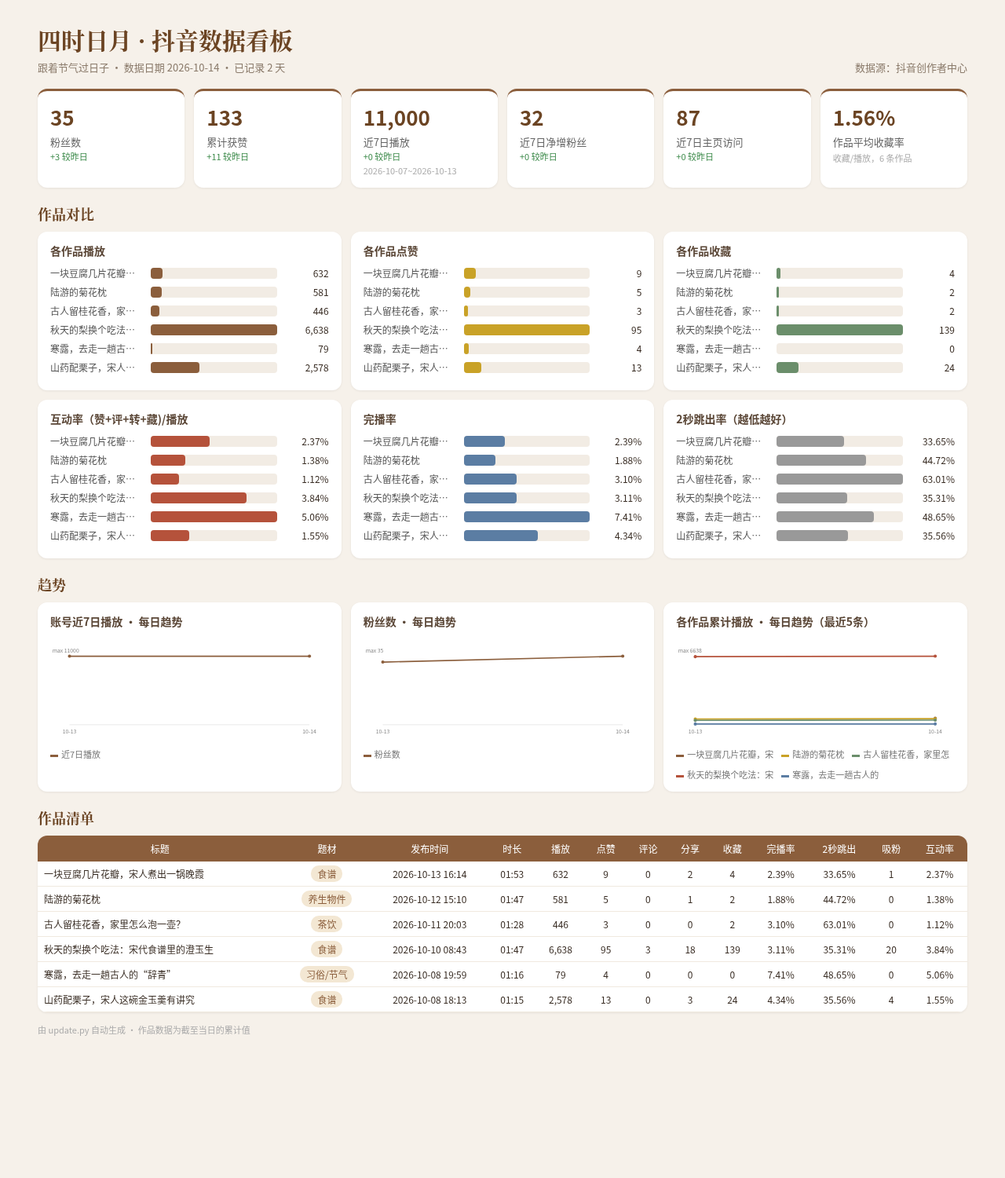
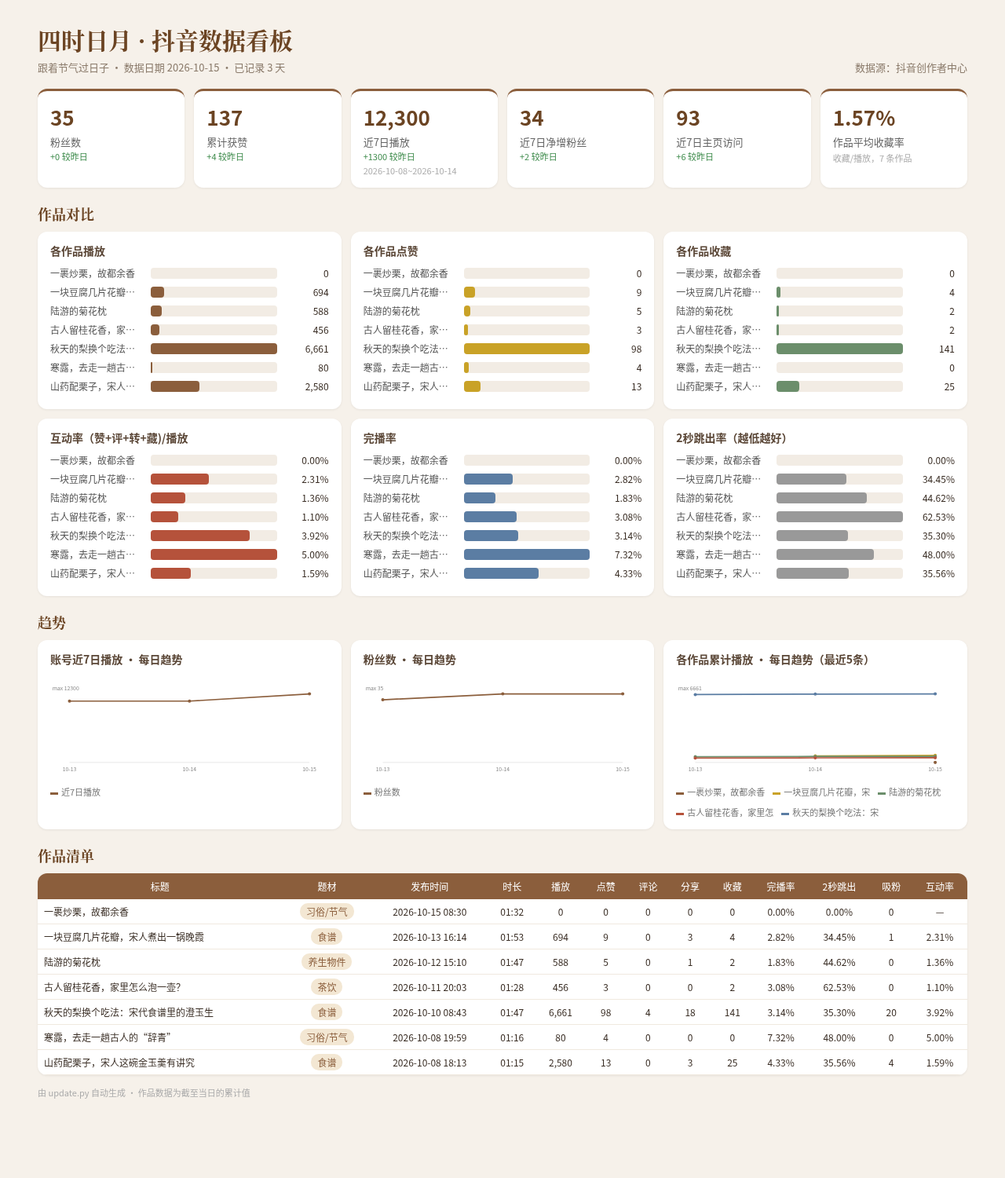
update 2026-10-15

diff --git a/index.html b/index.html
@@ -10,7 +10,7 @@ h2{font-family:"Noto Serif CJK SC",serif;font-size:18px;color:#6b4423;margin:20p
 .leg{font-size:11px;color:#777;display:flex;flex-wrap:wrap;gap:10px}.leg i{display:inline-block;width:10px;height:3px;margin-right:4px;vertical-align:middle}
 table{width:100%;border-collapse:collapse;background:#fff;border-radius:12px;overflow:hidden;font-size:12px;box-shadow:0 1px 3px #0001}th{background:#8B5E3C;color:#fff;padding:8px;font-weight:500}td{padding:7px 8px;border-bottom:1px solid #f0e9df;text-align:center}td:first-child{text-align:left}
 .tag{background:#f3e7d3;color:#8B5E3C;padding:2px 8px;border-radius:10px}footer{color:#aaa;font-size:11px;margin-top:14px}</style></head><body><div class="wrap">
-<header><div><h1>四时日月 · 抖音数据看板</h1><p>跟着节气过日子 · 数据日期 2026-10-14 · 已记录 2 天</p></div><p>数据源：抖音创作者中心</p></header>
-<div class="kpis"><div class="kpi"><b>35</b><span>粉丝数</span><em class="up">+3 较昨日</em><small></small></div><div class="kpi"><b>133</b><span>累计获赞</span><em class="up">+11 较昨日</em><small></small></div><div class="kpi"><b>11,000</b><span>近7日播放</span><em class="up">+0 较昨日</em><small>2026-10-07~2026-10-13</small></div><div class="kpi"><b>32</b><span>近7日净增粉丝</span><em class="up">+0 较昨日</em><small></small></div><div class="kpi"><b>87</b><span>近7日主页访问</span><em class="up">+0 较昨日</em><small></small></div><div class="kpi"><b>1.56%</b><span>作品平均收藏率</span><small>收藏/播放，6 条作品</small></div></div><h2>作品对比</h2><div class="grid"><div class="card"><h3>各作品播放</h3><div class="br"><span class="bl" title="一块豆腐几片花瓣，宋人煮出一锅晚霞">一块豆腐几片花瓣，宋人煮出一锅晚霞</span><div class="bt"><div class="bf" style="width:9.5%;background:#8B5E3C"></div></div><span class="bv">632</span></div><div class="br"><span class="bl" title="陆游的菊花枕">陆游的菊花枕</span><div class="bt"><div class="bf" style="width:8.8%;background:#8B5E3C"></div></div><span class="bv">581</span></div><div class="br"><span class="bl" title="古人留桂花香，家里怎么泡一壶？">古人留桂花香，家里怎么泡一壶？</span><div class="bt"><div class="bf" style="width:6.7%;background:#8B5E3C"></div></div><span class="bv">446</span></div><div class="br"><span class="bl" title="秋天的梨换个吃法：宋代食谱里的澄玉生">秋天的梨换个吃法：宋代食谱里的澄玉生</span><div class="bt"><div class="bf" style="width:100.0%;background:#8B5E3C"></div></div><span class="bv">6,638</span></div><div class="br"><span class="bl" title="寒露，去走一趟古人的“辞青”">寒露，去走一趟古人的“辞青”</span><div class="bt"><div class="bf" style="width:1.2%;background:#8B5E3C"></div></div><span class="bv">79</span></div><div class="br"><span class="bl" title="山药配栗子，宋人这碗金玉羹有讲究">山药配栗子，宋人这碗金玉羹有讲究</span><div class="bt"><div class="bf" style="width:38.8%;background:#8B5E3C"></div></div><span class="bv">2,578</span></div></div><div class="card"><h3>各作品点赞</h3><div class="br"><span class="bl" title="一块豆腐几片花瓣，宋人煮出一锅晚霞">一块豆腐几片花瓣，宋人煮出一锅晚霞</span><div class="bt"><div class="bf" style="width:9.5%;background:#C9A227"></div></div><span class="bv">9</span></div><div class="br"><span class="bl" title="陆游的菊花枕">陆游的菊花枕</span><div class="bt"><div class="bf" style="width:5.3%;background:#C9A227"></div></div><span class="bv">5</span></div><div class="br"><span class="bl" title="古人留桂花香，家里怎么泡一壶？">古人留桂花香，家里怎么泡一壶？</span><div class="bt"><div class="bf" style="width:3.2%;background:#C9A227"></div></div><span class="bv">3</span></div><div class="br"><span class="bl" title="秋天的梨换个吃法：宋代食谱里的澄玉生">秋天的梨换个吃法：宋代食谱里的澄玉生</span><div class="bt"><div class="bf" style="width:100.0%;background:#C9A227"></div></div><span class="bv">95</span></div><div class="br"><span class="bl" title="寒露，去走一趟古人的“辞青”">寒露，去走一趟古人的“辞青”</span><div class="bt"><div class="bf" style="width:4.2%;background:#C9A227"></div></div><span class="bv">4</span></div><div class="br"><span class="bl" title="山药配栗子，宋人这碗金玉羹有讲究">山药配栗子，宋人这碗金玉羹有讲究</span><div class="bt"><div class="bf" style="width:13.7%;background:#C9A227"></div></div><span class="bv">13</span></div></div><div class="card"><h3>各作品收藏</h3><div class="br"><span class="bl" title="一块豆腐几片花瓣，宋人煮出一锅晚霞">一块豆腐几片花瓣，宋人煮出一锅晚霞</span><div class="bt"><div class="bf" style="width:2.9%;background:#6B8E6B"></div></div><span class="bv">4</span></div><div class="br"><span class="bl" title="陆游的菊花枕">陆游的菊花枕</span><div class="bt"><div class="bf" style="width:1.4%;background:#6B8E6B"></div></div><span class="bv">2</span></div><div class="br"><span class="bl" title="古人留桂花香，家里怎么泡一壶？">古人留桂花香，家里怎么泡一壶？</span><div class="bt"><div class="bf" style="width:1.4%;background:#6B8E6B"></div></div><span class="bv">2</span></div><div class="br"><span class="bl" title="秋天的梨换个吃法：宋代食谱里的澄玉生">秋天的梨换个吃法：宋代食谱里的澄玉生</span><div class="bt"><div class="bf" style="width:100.0%;background:#6B8E6B"></div></div><span class="bv">139</span></div><div class="br"><span class="bl" title="寒露，去走一趟古人的“辞青”">寒露，去走一趟古人的“辞青”</span><div class="bt"><div class="bf" style="width:0.0%;background:#6B8E6B"></div></div><span class="bv">0</span></div><div class="br"><span class="bl" title="山药配栗子，宋人这碗金玉羹有讲究">山药配栗子，宋人这碗金玉羹有讲究</span><div class="bt"><div class="bf" style="width:17.3%;background:#6B8E6B"></div></div><span class="bv">24</span></div></div><div class="card"><h3>互动率（赞+评+转+藏)/播放</h3><div class="br"><span class="bl" title="一块豆腐几片花瓣，宋人煮出一锅晚霞">一块豆腐几片花瓣，宋人煮出一锅晚霞</span><div class="bt"><div class="bf" style="width:46.8%;background:#B5523B"></div></div><span class="bv">2.37%</span></div><div class="br"><span class="bl" title="陆游的菊花枕">陆游的菊花枕</span><div class="bt"><div class="bf" style="width:27.3%;background:#B5523B"></div></div><span class="bv">1.38%</span></div><div class="br"><span class="bl" title="古人留桂花香，家里怎么泡一壶？">古人留桂花香，家里怎么泡一壶？</span><div class="bt"><div class="bf" style="width:22.1%;background:#B5523B"></div></div><span class="bv">1.12%</span></div><div class="br"><span class="bl" title="秋天的梨换个吃法：宋代食谱里的澄玉生">秋天的梨换个吃法：宋代食谱里的澄玉生</span><div class="bt"><div class="bf" style="width:75.9%;background:#B5523B"></div></div><span class="bv">3.84%</span></div><div class="br"><span class="bl" title="寒露，去走一趟古人的“辞青”">寒露，去走一趟古人的“辞青”</span><div class="bt"><div class="bf" style="width:100.0%;background:#B5523B"></div></div><span class="bv">5.06%</span></div><div class="br"><span class="bl" title="山药配栗子，宋人这碗金玉羹有讲究">山药配栗子，宋人这碗金玉羹有讲究</span><div class="bt"><div class="bf" style="width:30.6%;background:#B5523B"></div></div><span class="bv">1.55%</span></div></div><div class="card"><h3>完播率</h3><div class="br"><span class="bl" title="一块豆腐几片花瓣，宋人煮出一锅晚霞">一块豆腐几片花瓣，宋人煮出一锅晚霞</span><div class="bt"><div class="bf" style="width:32.3%;background:#5B7DA3"></div></div><span class="bv">2.39%</span></div><div class="br"><span class="bl" title="陆游的菊花枕">陆游的菊花枕</span><div class="bt"><div class="bf" style="width:25.4%;background:#5B7DA3"></div></div><span class="bv">1.88%</span></div><div class="br"><span class="bl" title="古人留桂花香，家里怎么泡一壶？">古人留桂花香，家里怎么泡一壶？</span><div class="bt"><div class="bf" style="width:41.8%;background:#5B7DA3"></div></div><span class="bv">3.10%</span></div><div class="br"><span class="bl" title="秋天的梨换个吃法：宋代食谱里的澄玉生">秋天的梨换个吃法：宋代食谱里的澄玉生</span><div class="bt"><div class="bf" style="width:42.0%;background:#5B7DA3"></div></div><span class="bv">3.11%</span></div><div class="br"><span class="bl" title="寒露，去走一趟古人的“辞青”">寒露，去走一趟古人的“辞青”</span><div class="bt"><div class="bf" style="width:100.0%;background:#5B7DA3"></div></div><span class="bv">7.41%</span></div><div class="br"><span class="bl" title="山药配栗子，宋人这碗金玉羹有讲究">山药配栗子，宋人这碗金玉羹有讲究</span><div class="bt"><div class="bf" style="width:58.6%;background:#5B7DA3"></div></div><span class="bv">4.34%</span></div></div><div class="card"><h3>2秒跳出率（越低越好）</h3><div class="br"><span class="bl" title="一块豆腐几片花瓣，宋人煮出一锅晚霞">一块豆腐几片花瓣，宋人煮出一锅晚霞</span><div class="bt"><div class="bf" style="width:53.4%;background:#999"></div></div><span class="bv">33.65%</span></div><div class="br"><span class="bl" title="陆游的菊花枕">陆游的菊花枕</span><div class="bt"><div class="bf" style="width:71.0%;background:#999"></div></div><span class="bv">44.72%</span></div><div class="br"><span class="bl" title="古人留桂花香，家里怎么泡一壶？">古人留桂花香，家里怎么泡一壶？</span><div class="bt"><div class="bf" style="width:100.0%;background:#999"></div></div><span class="bv">63.01%</span></div><div class="br"><span class="bl" title="秋天的梨换个吃法：宋代食谱里的澄玉生">秋天的梨换个吃法：宋代食谱里的澄玉生</span><div class="bt"><div class="bf" style="width:56.0%;background:#999"></div></div><span class="bv">35.31%</span></div><div class="br"><span class="bl" title="寒露，去走一趟古人的“辞青”">寒露，去走一趟古人的“辞青”</span><div class="bt"><div class="bf" style="width:77.2%;background:#999"></div></div><span class="bv">48.65%</span></div><div class="br"><span class="bl" title="山药配栗子，宋人这碗金玉羹有讲究">山药配栗子，宋人这碗金玉羹有讲究</span><div class="bt"><div class="bf" style="width:56.4%;background:#999"></div></div><span class="bv">35.56%</span></div></div></div><h2>趋势</h2><div class="grid"><div class="card"><h3>账号近7日播放 · 每日趋势</h3><svg viewBox="0 0 520 200"><line x1="36" y1="164" x2="484" y2="164" stroke="#ddd"/><polyline points="36.0,36.0 484.0,36.0" fill="none" stroke="#8B5E3C" stroke-width="2.5"/><circle cx="36.0" cy="36.0" r="3" fill="#8B5E3C"/><circle cx="484.0" cy="36.0" r="3" fill="#8B5E3C"/><text x="36.0" y="180" font-size="10" text-anchor="middle" fill="#888">10-13</text><text x="484.0" y="180" font-size="10" text-anchor="middle" fill="#888">10-14</text><text x="4" y="30" font-size="10" fill="#888">max 11000</text></svg><div class="leg"><span><i style="background:#8B5E3C"></i>近7日播放</span></div></div><div class="card"><h3>粉丝数 · 每日趋势</h3><svg viewBox="0 0 520 200"><line x1="36" y1="164" x2="484" y2="164" stroke="#ddd"/><polyline points="36.0,47.0 484.0,36.0" fill="none" stroke="#8B5E3C" stroke-width="2.5"/><circle cx="36.0" cy="47.0" r="3" fill="#8B5E3C"/><circle cx="484.0" cy="36.0" r="3" fill="#8B5E3C"/><text x="36.0" y="180" font-size="10" text-anchor="middle" fill="#888">10-13</text><text x="484.0" y="180" font-size="10" text-anchor="middle" fill="#888">10-14</text><text x="4" y="30" font-size="10" fill="#888">max 35</text></svg><div class="leg"><span><i style="background:#8B5E3C"></i>粉丝数</span></div></div><div class="card"><h3>各作品累计播放 · 每日趋势（最近5条）</h3><svg viewBox="0 0 520 200"><line x1="36" y1="164" x2="484" y2="164" stroke="#ddd"/><polyline points="484.0,151.8" fill="none" stroke="#8B5E3C" stroke-width="2.5"/><circle cx="484.0" cy="151.8" r="3" fill="#8B5E3C"/><polyline points="36.0,153.3 484.0,152.8" fill="none" stroke="#C9A227" stroke-width="2.5"/><circle cx="36.0" cy="153.3" r="3" fill="#C9A227"/><circle cx="484.0" cy="152.8" r="3" fill="#C9A227"/><polyline points="36.0,155.8 484.0,155.4" fill="none" stroke="#6B8E6B" stroke-width="2.5"/><circle cx="36.0" cy="155.8" r="3" fill="#6B8E6B"/><circle cx="484.0" cy="155.4" r="3" fill="#6B8E6B"/><polyline points="36.0,36.9 484.0,36.0" fill="none" stroke="#B5523B" stroke-width="2.5"/><circle cx="36.0" cy="36.9" r="3" fill="#B5523B"/><circle cx="484.0" cy="36.0" r="3" fill="#B5523B"/><polyline points="36.0,162.6 484.0,162.5" fill="none" stroke="#5B7DA3" stroke-width="2.5"/><circle cx="36.0" cy="162.6" r="3" fill="#5B7DA3"/><circle cx="484.0" cy="162.5" r="3" fill="#5B7DA3"/><text x="36.0" y="180" font-size="10" text-anchor="middle" fill="#888">10-13</text><text x="484.0" y="180" font-size="10" text-anchor="middle" fill="#888">10-14</text><text x="4" y="30" font-size="10" fill="#888">max 6638</text></svg><div class="leg"><span><i style="background:#8B5E3C"></i>一块豆腐几片花瓣，宋</span><span><i style="background:#C9A227"></i>陆游的菊花枕</span><span><i style="background:#6B8E6B"></i>古人留桂花香，家里怎</span><span><i style="background:#B5523B"></i>秋天的梨换个吃法：宋</span><span><i style="background:#5B7DA3"></i>寒露，去走一趟古人的</span></div></div></div>
-<h2>作品清单</h2><table><tr><th>标题</th><th>题材</th><th>发布时间</th><th>时长</th><th>播放</th><th>点赞</th><th>评论</th><th>分享</th><th>收藏</th><th>完播率</th><th>2秒跳出</th><th>吸粉</th><th>互动率</th></tr><tr><td>一块豆腐几片花瓣，宋人煮出一锅晚霞</td><td><span class="tag">食谱</span></td><td>2026-10-13 16:14</td><td>01:53</td><td>632</td><td>9</td><td>0</td><td>2</td><td>4</td><td>2.39%</td><td>33.65%</td><td>1</td><td>2.37%</td></tr><tr><td>陆游的菊花枕</td><td><span class="tag">养生物件</span></td><td>2026-10-12 15:10</td><td>01:47</td><td>581</td><td>5</td><td>0</td><td>1</td><td>2</td><td>1.88%</td><td>44.72%</td><td>0</td><td>1.38%</td></tr><tr><td>古人留桂花香，家里怎么泡一壶？</td><td><span class="tag">茶饮</span></td><td>2026-10-11 20:03</td><td>01:28</td><td>446</td><td>3</td><td>0</td><td>0</td><td>2</td><td>3.10%</td><td>63.01%</td><td>0</td><td>1.12%</td></tr><tr><td>秋天的梨换个吃法：宋代食谱里的澄玉生</td><td><span class="tag">食谱</span></td><td>2026-10-10 08:43</td><td>01:47</td><td>6,638</td><td>95</td><td>3</td><td>18</td><td>139</td><td>3.11%</td><td>35.31%</td><td>20</td><td>3.84%</td></tr><tr><td>寒露，去走一趟古人的“辞青”</td><td><span class="tag">习俗/节气</span></td><td>2026-10-08 19:59</td><td>01:16</td><td>79</td><td>4</td><td>0</td><td>0</td><td>0</td><td>7.41%</td><td>48.65%</td><td>0</td><td>5.06%</td></tr><tr><td>山药配栗子，宋人这碗金玉羹有讲究</td><td><span class="tag">食谱</span></td><td>2026-10-08 18:13</td><td>01:15</td><td>2,578</td><td>13</td><td>0</td><td>3</td><td>24</td><td>4.34%</td><td>35.56%</td><td>4</td><td>1.55%</td></tr></table>
+<header><div><h1>四时日月 · 抖音数据看板</h1><p>跟着节气过日子 · 数据日期 2026-10-15 · 已记录 3 天</p></div><p>数据源：抖音创作者中心</p></header>
+<div class="kpis"><div class="kpi"><b>35</b><span>粉丝数</span><em class="up">+0 较昨日</em><small></small></div><div class="kpi"><b>137</b><span>累计获赞</span><em class="up">+4 较昨日</em><small></small></div><div class="kpi"><b>12,300</b><span>近7日播放</span><em class="up">+1300 较昨日</em><small>2026-10-08~2026-10-14</small></div><div class="kpi"><b>34</b><span>近7日净增粉丝</span><em class="up">+2 较昨日</em><small></small></div><div class="kpi"><b>93</b><span>近7日主页访问</span><em class="up">+6 较昨日</em><small></small></div><div class="kpi"><b>1.57%</b><span>作品平均收藏率</span><small>收藏/播放，7 条作品</small></div></div><h2>作品对比</h2><div class="grid"><div class="card"><h3>各作品播放</h3><div class="br"><span class="bl" title="一裹炒栗，故都余香">一裹炒栗，故都余香</span><div class="bt"><div class="bf" style="width:0.0%;background:#8B5E3C"></div></div><span class="bv">0</span></div><div class="br"><span class="bl" title="一块豆腐几片花瓣，宋人煮出一锅晚霞">一块豆腐几片花瓣，宋人煮出一锅晚霞</span><div class="bt"><div class="bf" style="width:10.4%;background:#8B5E3C"></div></div><span class="bv">694</span></div><div class="br"><span class="bl" title="陆游的菊花枕">陆游的菊花枕</span><div class="bt"><div class="bf" style="width:8.8%;background:#8B5E3C"></div></div><span class="bv">588</span></div><div class="br"><span class="bl" title="古人留桂花香，家里怎么泡一壶？">古人留桂花香，家里怎么泡一壶？</span><div class="bt"><div class="bf" style="width:6.8%;background:#8B5E3C"></div></div><span class="bv">456</span></div><div class="br"><span class="bl" title="秋天的梨换个吃法：宋代食谱里的澄玉生">秋天的梨换个吃法：宋代食谱里的澄玉生</span><div class="bt"><div class="bf" style="width:100.0%;background:#8B5E3C"></div></div><span class="bv">6,661</span></div><div class="br"><span class="bl" title="寒露，去走一趟古人的“辞青”">寒露，去走一趟古人的“辞青”</span><div class="bt"><div class="bf" style="width:1.2%;background:#8B5E3C"></div></div><span class="bv">80</span></div><div class="br"><span class="bl" title="山药配栗子，宋人这碗金玉羹有讲究">山药配栗子，宋人这碗金玉羹有讲究</span><div class="bt"><div class="bf" style="width:38.7%;background:#8B5E3C"></div></div><span class="bv">2,580</span></div></div><div class="card"><h3>各作品点赞</h3><div class="br"><span class="bl" title="一裹炒栗，故都余香">一裹炒栗，故都余香</span><div class="bt"><div class="bf" style="width:0.0%;background:#C9A227"></div></div><span class="bv">0</span></div><div class="br"><span class="bl" title="一块豆腐几片花瓣，宋人煮出一锅晚霞">一块豆腐几片花瓣，宋人煮出一锅晚霞</span><div class="bt"><div class="bf" style="width:9.2%;background:#C9A227"></div></div><span class="bv">9</span></div><div class="br"><span class="bl" title="陆游的菊花枕">陆游的菊花枕</span><div class="bt"><div class="bf" style="width:5.1%;background:#C9A227"></div></div><span class="bv">5</span></div><div class="br"><span class="bl" title="古人留桂花香，家里怎么泡一壶？">古人留桂花香，家里怎么泡一壶？</span><div class="bt"><div class="bf" style="width:3.1%;background:#C9A227"></div></div><span class="bv">3</span></div><div class="br"><span class="bl" title="秋天的梨换个吃法：宋代食谱里的澄玉生">秋天的梨换个吃法：宋代食谱里的澄玉生</span><div class="bt"><div class="bf" style="width:100.0%;background:#C9A227"></div></div><span class="bv">98</span></div><div class="br"><span class="bl" title="寒露，去走一趟古人的“辞青”">寒露，去走一趟古人的“辞青”</span><div class="bt"><div class="bf" style="width:4.1%;background:#C9A227"></div></div><span class="bv">4</span></div><div class="br"><span class="bl" title="山药配栗子，宋人这碗金玉羹有讲究">山药配栗子，宋人这碗金玉羹有讲究</span><div class="bt"><div class="bf" style="width:13.3%;background:#C9A227"></div></div><span class="bv">13</span></div></div><div class="card"><h3>各作品收藏</h3><div class="br"><span class="bl" title="一裹炒栗，故都余香">一裹炒栗，故都余香</span><div class="bt"><div class="bf" style="width:0.0%;background:#6B8E6B"></div></div><span class="bv">0</span></div><div class="br"><span class="bl" title="一块豆腐几片花瓣，宋人煮出一锅晚霞">一块豆腐几片花瓣，宋人煮出一锅晚霞</span><div class="bt"><div class="bf" style="width:2.8%;background:#6B8E6B"></div></div><span class="bv">4</span></div><div class="br"><span class="bl" title="陆游的菊花枕">陆游的菊花枕</span><div class="bt"><div class="bf" style="width:1.4%;background:#6B8E6B"></div></div><span class="bv">2</span></div><div class="br"><span class="bl" title="古人留桂花香，家里怎么泡一壶？">古人留桂花香，家里怎么泡一壶？</span><div class="bt"><div class="bf" style="width:1.4%;background:#6B8E6B"></div></div><span class="bv">2</span></div><div class="br"><span class="bl" title="秋天的梨换个吃法：宋代食谱里的澄玉生">秋天的梨换个吃法：宋代食谱里的澄玉生</span><div class="bt"><div class="bf" style="width:100.0%;background:#6B8E6B"></div></div><span class="bv">141</span></div><div class="br"><span class="bl" title="寒露，去走一趟古人的“辞青”">寒露，去走一趟古人的“辞青”</span><div class="bt"><div class="bf" style="width:0.0%;background:#6B8E6B"></div></div><span class="bv">0</span></div><div class="br"><span class="bl" title="山药配栗子，宋人这碗金玉羹有讲究">山药配栗子，宋人这碗金玉羹有讲究</span><div class="bt"><div class="bf" style="width:17.7%;background:#6B8E6B"></div></div><span class="bv">25</span></div></div><div class="card"><h3>互动率（赞+评+转+藏)/播放</h3><div class="br"><span class="bl" title="一裹炒栗，故都余香">一裹炒栗，故都余香</span><div class="bt"><div class="bf" style="width:0.0%;background:#B5523B"></div></div><span class="bv">0.00%</span></div><div class="br"><span class="bl" title="一块豆腐几片花瓣，宋人煮出一锅晚霞">一块豆腐几片花瓣，宋人煮出一锅晚霞</span><div class="bt"><div class="bf" style="width:46.2%;background:#B5523B"></div></div><span class="bv">2.31%</span></div><div class="br"><span class="bl" title="陆游的菊花枕">陆游的菊花枕</span><div class="bt"><div class="bf" style="width:27.2%;background:#B5523B"></div></div><span class="bv">1.36%</span></div><div class="br"><span class="bl" title="古人留桂花香，家里怎么泡一壶？">古人留桂花香，家里怎么泡一壶？</span><div class="bt"><div class="bf" style="width:22.0%;background:#B5523B"></div></div><span class="bv">1.10%</span></div><div class="br"><span class="bl" title="秋天的梨换个吃法：宋代食谱里的澄玉生">秋天的梨换个吃法：宋代食谱里的澄玉生</span><div class="bt"><div class="bf" style="width:78.4%;background:#B5523B"></div></div><span class="bv">3.92%</span></div><div class="br"><span class="bl" title="寒露，去走一趟古人的“辞青”">寒露，去走一趟古人的“辞青”</span><div class="bt"><div class="bf" style="width:100.0%;background:#B5523B"></div></div><span class="bv">5.00%</span></div><div class="br"><span class="bl" title="山药配栗子，宋人这碗金玉羹有讲究">山药配栗子，宋人这碗金玉羹有讲究</span><div class="bt"><div class="bf" style="width:31.8%;background:#B5523B"></div></div><span class="bv">1.59%</span></div></div><div class="card"><h3>完播率</h3><div class="br"><span class="bl" title="一裹炒栗，故都余香">一裹炒栗，故都余香</span><div class="bt"><div class="bf" style="width:0.0%;background:#5B7DA3"></div></div><span class="bv">0.00%</span></div><div class="br"><span class="bl" title="一块豆腐几片花瓣，宋人煮出一锅晚霞">一块豆腐几片花瓣，宋人煮出一锅晚霞</span><div class="bt"><div class="bf" style="width:38.5%;background:#5B7DA3"></div></div><span class="bv">2.82%</span></div><div class="br"><span class="bl" title="陆游的菊花枕">陆游的菊花枕</span><div class="bt"><div class="bf" style="width:25.0%;background:#5B7DA3"></div></div><span class="bv">1.83%</span></div><div class="br"><span class="bl" title="古人留桂花香，家里怎么泡一壶？">古人留桂花香，家里怎么泡一壶？</span><div class="bt"><div class="bf" style="width:42.1%;background:#5B7DA3"></div></div><span class="bv">3.08%</span></div><div class="br"><span class="bl" title="秋天的梨换个吃法：宋代食谱里的澄玉生">秋天的梨换个吃法：宋代食谱里的澄玉生</span><div class="bt"><div class="bf" style="width:42.9%;background:#5B7DA3"></div></div><span class="bv">3.14%</span></div><div class="br"><span class="bl" title="寒露，去走一趟古人的“辞青”">寒露，去走一趟古人的“辞青”</span><div class="bt"><div class="bf" style="width:100.0%;background:#5B7DA3"></div></div><span class="bv">7.32%</span></div><div class="br"><span class="bl" title="山药配栗子，宋人这碗金玉羹有讲究">山药配栗子，宋人这碗金玉羹有讲究</span><div class="bt"><div class="bf" style="width:59.2%;background:#5B7DA3"></div></div><span class="bv">4.33%</span></div></div><div class="card"><h3>2秒跳出率（越低越好）</h3><div class="br"><span class="bl" title="一裹炒栗，故都余香">一裹炒栗，故都余香</span><div class="bt"><div class="bf" style="width:0.0%;background:#999"></div></div><span class="bv">0.00%</span></div><div class="br"><span class="bl" title="一块豆腐几片花瓣，宋人煮出一锅晚霞">一块豆腐几片花瓣，宋人煮出一锅晚霞</span><div class="bt"><div class="bf" style="width:55.1%;background:#999"></div></div><span class="bv">34.45%</span></div><div class="br"><span class="bl" title="陆游的菊花枕">陆游的菊花枕</span><div class="bt"><div class="bf" style="width:71.4%;background:#999"></div></div><span class="bv">44.62%</span></div><div class="br"><span class="bl" title="古人留桂花香，家里怎么泡一壶？">古人留桂花香，家里怎么泡一壶？</span><div class="bt"><div class="bf" style="width:100.0%;background:#999"></div></div><span class="bv">62.53%</span></div><div class="br"><span class="bl" title="秋天的梨换个吃法：宋代食谱里的澄玉生">秋天的梨换个吃法：宋代食谱里的澄玉生</span><div class="bt"><div class="bf" style="width:56.5%;background:#999"></div></div><span class="bv">35.30%</span></div><div class="br"><span class="bl" title="寒露，去走一趟古人的“辞青”">寒露，去走一趟古人的“辞青”</span><div class="bt"><div class="bf" style="width:76.8%;background:#999"></div></div><span class="bv">48.00%</span></div><div class="br"><span class="bl" title="山药配栗子，宋人这碗金玉羹有讲究">山药配栗子，宋人这碗金玉羹有讲究</span><div class="bt"><div class="bf" style="width:56.9%;background:#999"></div></div><span class="bv">35.56%</span></div></div></div><h2>趋势</h2><div class="grid"><div class="card"><h3>账号近7日播放 · 每日趋势</h3><svg viewBox="0 0 520 200"><line x1="36" y1="164" x2="484" y2="164" stroke="#ddd"/><polyline points="36.0,49.5 260.0,49.5 484.0,36.0" fill="none" stroke="#8B5E3C" stroke-width="2.5"/><circle cx="36.0" cy="49.5" r="3" fill="#8B5E3C"/><circle cx="260.0" cy="49.5" r="3" fill="#8B5E3C"/><circle cx="484.0" cy="36.0" r="3" fill="#8B5E3C"/><text x="36.0" y="180" font-size="10" text-anchor="middle" fill="#888">10-13</text><text x="260.0" y="180" font-size="10" text-anchor="middle" fill="#888">10-14</text><text x="484.0" y="180" font-size="10" text-anchor="middle" fill="#888">10-15</text><text x="4" y="30" font-size="10" fill="#888">max 12300</text></svg><div class="leg"><span><i style="background:#8B5E3C"></i>近7日播放</span></div></div><div class="card"><h3>粉丝数 · 每日趋势</h3><svg viewBox="0 0 520 200"><line x1="36" y1="164" x2="484" y2="164" stroke="#ddd"/><polyline points="36.0,47.0 260.0,36.0 484.0,36.0" fill="none" stroke="#8B5E3C" stroke-width="2.5"/><circle cx="36.0" cy="47.0" r="3" fill="#8B5E3C"/><circle cx="260.0" cy="36.0" r="3" fill="#8B5E3C"/><circle cx="484.0" cy="36.0" r="3" fill="#8B5E3C"/><text x="36.0" y="180" font-size="10" text-anchor="middle" fill="#888">10-13</text><text x="260.0" y="180" font-size="10" text-anchor="middle" fill="#888">10-14</text><text x="484.0" y="180" font-size="10" text-anchor="middle" fill="#888">10-15</text><text x="4" y="30" font-size="10" fill="#888">max 35</text></svg><div class="leg"><span><i style="background:#8B5E3C"></i>粉丝数</span></div></div><div class="card"><h3>各作品累计播放 · 每日趋势（最近5条）</h3><svg viewBox="0 0 520 200"><line x1="36" y1="164" x2="484" y2="164" stroke="#ddd"/><polyline points="484.0,164.0" fill="none" stroke="#8B5E3C" stroke-width="2.5"/><circle cx="484.0" cy="164.0" r="3" fill="#8B5E3C"/><polyline points="260.0,151.9 484.0,150.7" fill="none" stroke="#C9A227" stroke-width="2.5"/><circle cx="260.0" cy="151.9" r="3" fill="#C9A227"/><circle cx="484.0" cy="150.7" r="3" fill="#C9A227"/><polyline points="36.0,153.4 260.0,152.8 484.0,152.7" fill="none" stroke="#6B8E6B" stroke-width="2.5"/><circle cx="36.0" cy="153.4" r="3" fill="#6B8E6B"/><circle cx="260.0" cy="152.8" r="3" fill="#6B8E6B"/><circle cx="484.0" cy="152.7" r="3" fill="#6B8E6B"/><polyline points="36.0,155.8 260.0,155.4 484.0,155.2" fill="none" stroke="#B5523B" stroke-width="2.5"/><circle cx="36.0" cy="155.8" r="3" fill="#B5523B"/><circle cx="260.0" cy="155.4" r="3" fill="#B5523B"/><circle cx="484.0" cy="155.2" r="3" fill="#B5523B"/><polyline points="36.0,37.3 260.0,36.4 484.0,36.0" fill="none" stroke="#5B7DA3" stroke-width="2.5"/><circle cx="36.0" cy="37.3" r="3" fill="#5B7DA3"/><circle cx="260.0" cy="36.4" r="3" fill="#5B7DA3"/><circle cx="484.0" cy="36.0" r="3" fill="#5B7DA3"/><text x="36.0" y="180" font-size="10" text-anchor="middle" fill="#888">10-13</text><text x="260.0" y="180" font-size="10" text-anchor="middle" fill="#888">10-14</text><text x="484.0" y="180" font-size="10" text-anchor="middle" fill="#888">10-15</text><text x="4" y="30" font-size="10" fill="#888">max 6661</text></svg><div class="leg"><span><i style="background:#8B5E3C"></i>一裹炒栗，故都余香</span><span><i style="background:#C9A227"></i>一块豆腐几片花瓣，宋</span><span><i style="background:#6B8E6B"></i>陆游的菊花枕</span><span><i style="background:#B5523B"></i>古人留桂花香，家里怎</span><span><i style="background:#5B7DA3"></i>秋天的梨换个吃法：宋</span></div></div></div>
+<h2>作品清单</h2><table><tr><th>标题</th><th>题材</th><th>发布时间</th><th>时长</th><th>播放</th><th>点赞</th><th>评论</th><th>分享</th><th>收藏</th><th>完播率</th><th>2秒跳出</th><th>吸粉</th><th>互动率</th></tr><tr><td>一裹炒栗，故都余香</td><td><span class="tag">习俗/节气</span></td><td>2026-10-15 08:30</td><td>01:32</td><td>0</td><td>0</td><td>0</td><td>0</td><td>0</td><td>0.00%</td><td>0.00%</td><td>0</td><td>—</td></tr><tr><td>一块豆腐几片花瓣，宋人煮出一锅晚霞</td><td><span class="tag">食谱</span></td><td>2026-10-13 16:14</td><td>01:53</td><td>694</td><td>9</td><td>0</td><td>3</td><td>4</td><td>2.82%</td><td>34.45%</td><td>1</td><td>2.31%</td></tr><tr><td>陆游的菊花枕</td><td><span class="tag">养生物件</span></td><td>2026-10-12 15:10</td><td>01:47</td><td>588</td><td>5</td><td>0</td><td>1</td><td>2</td><td>1.83%</td><td>44.62%</td><td>0</td><td>1.36%</td></tr><tr><td>古人留桂花香，家里怎么泡一壶？</td><td><span class="tag">茶饮</span></td><td>2026-10-11 20:03</td><td>01:28</td><td>456</td><td>3</td><td>0</td><td>0</td><td>2</td><td>3.08%</td><td>62.53%</td><td>0</td><td>1.10%</td></tr><tr><td>秋天的梨换个吃法：宋代食谱里的澄玉生</td><td><span class="tag">食谱</span></td><td>2026-10-10 08:43</td><td>01:47</td><td>6,661</td><td>98</td><td>4</td><td>18</td><td>141</td><td>3.14%</td><td>35.30%</td><td>20</td><td>3.92%</td></tr><tr><td>寒露，去走一趟古人的“辞青”</td><td><span class="tag">习俗/节气</span></td><td>2026-10-08 19:59</td><td>01:16</td><td>80</td><td>4</td><td>0</td><td>0</td><td>0</td><td>7.32%</td><td>48.00%</td><td>0</td><td>5.00%</td></tr><tr><td>山药配栗子，宋人这碗金玉羹有讲究</td><td><span class="tag">食谱</span></td><td>2026-10-08 18:13</td><td>01:15</td><td>2,580</td><td>13</td><td>0</td><td>3</td><td>25</td><td>4.33%</td><td>35.56%</td><td>4</td><td>1.59%</td></tr></table>
 <footer>由 update.py 自动生成 · 作品数据为截至当日的累计值</footer></div></body></html>
